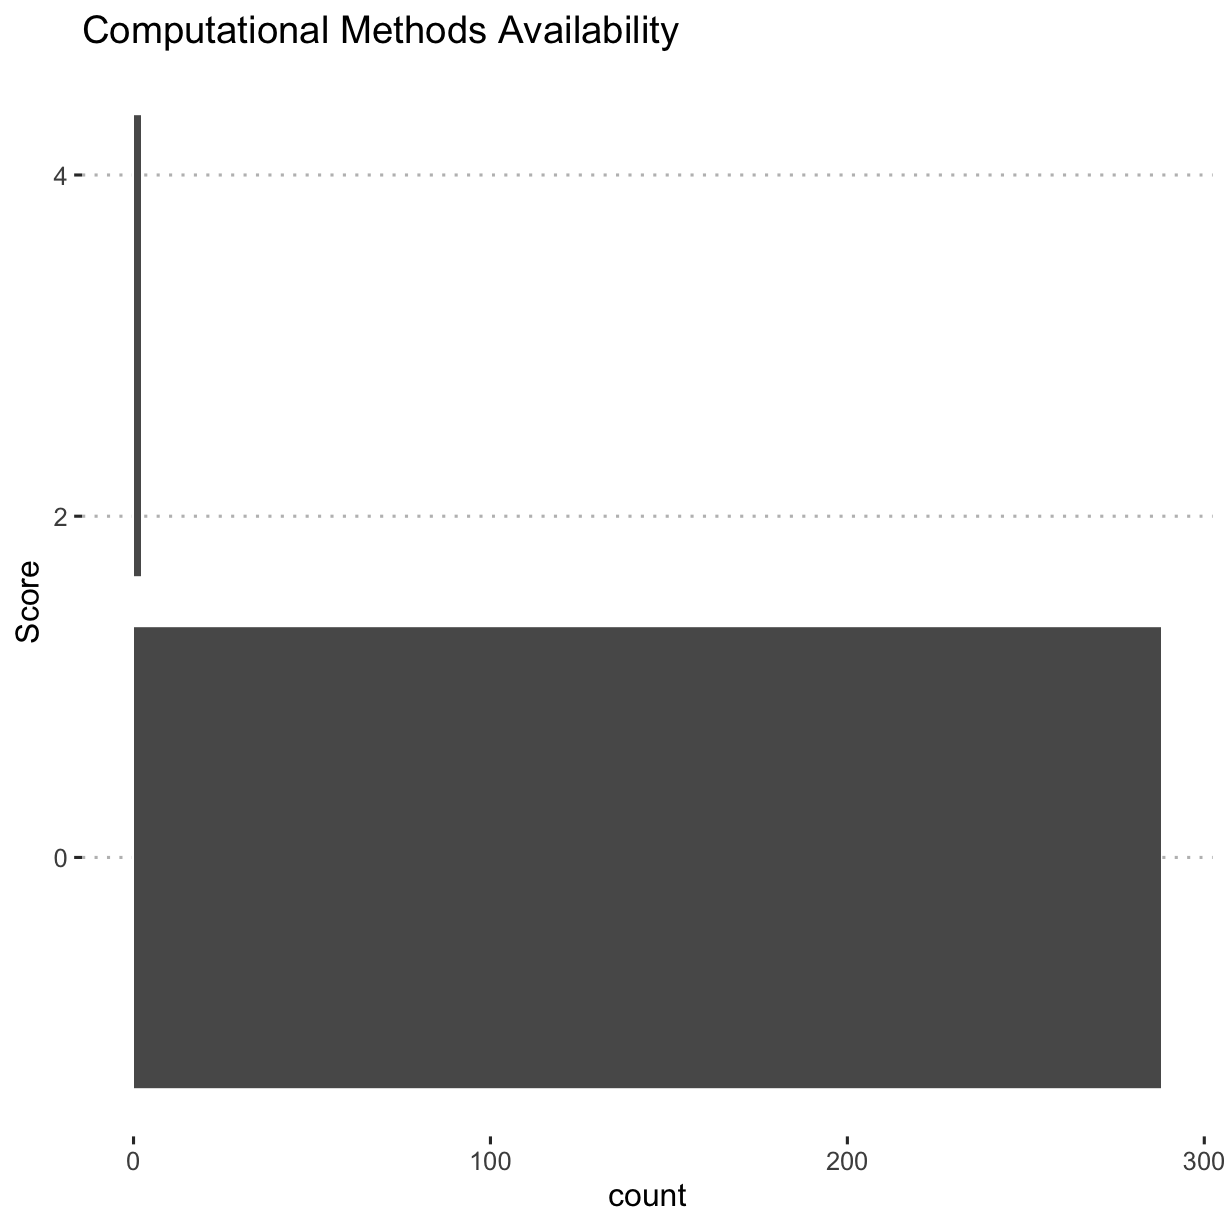
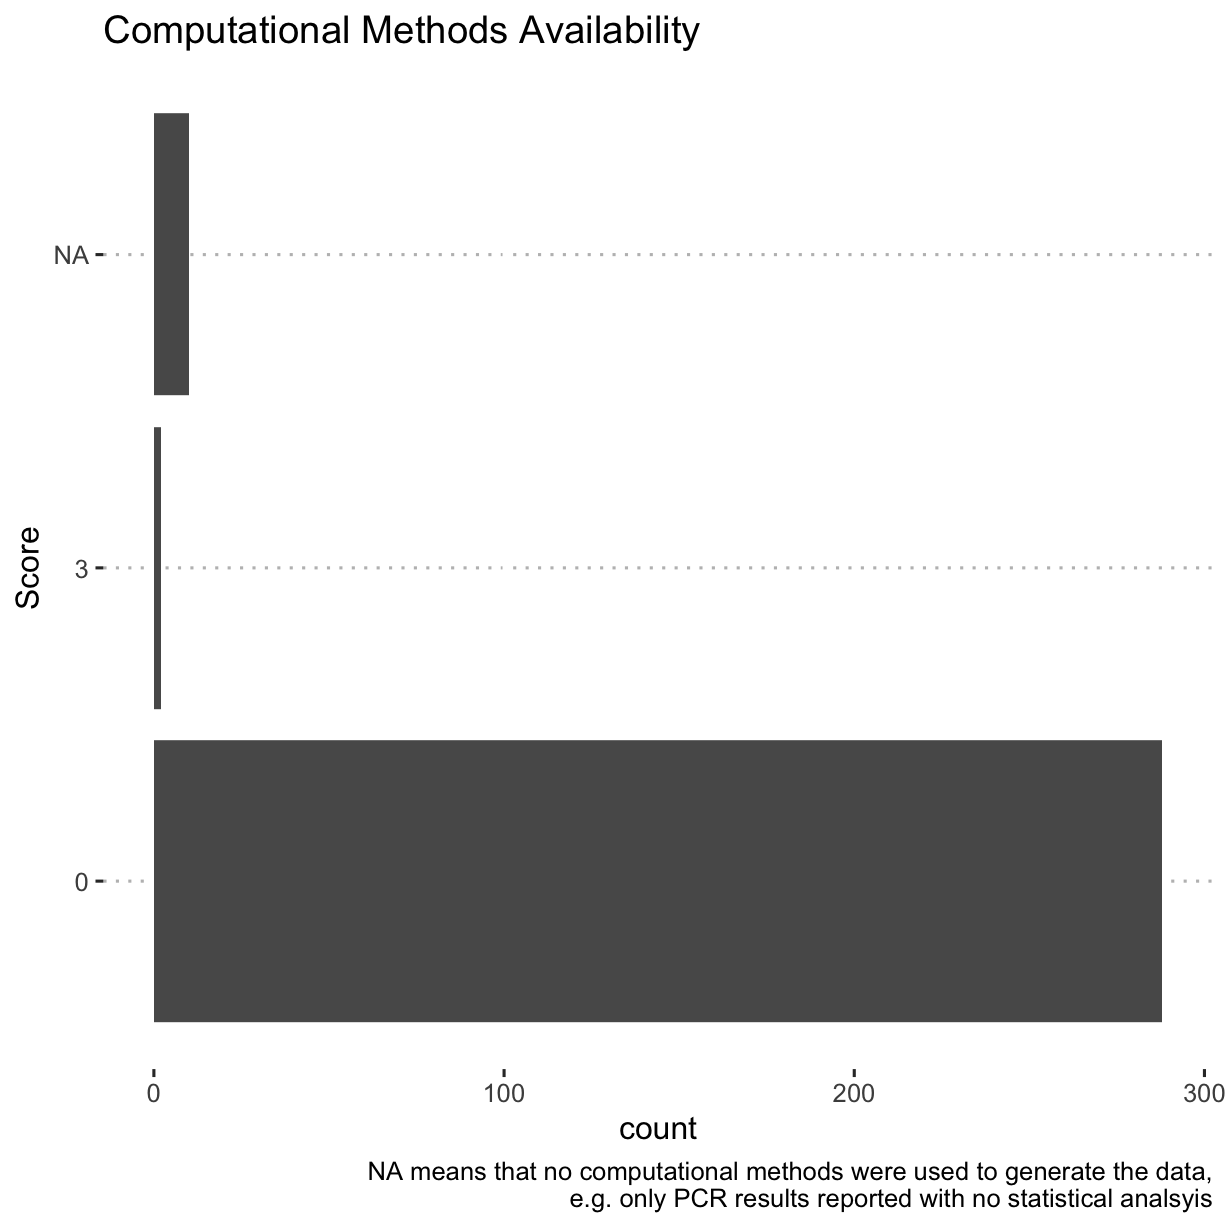
Built site for Reproducibility.in.Plant.Pathology: 0.0.1-1@0c189c2

Changed region(s): [[0.0309, 0.0928, 1.0, 0.9902], [0.0619, 0.0, 0.557, 0.0619], [0.0, 0.4332, 0.0309, 0.5261]]

diff --git a/articles/e_analysis.html b/articles/e_analysis.html
@@ -219,11 +219,11 @@
 <h2 class="hasAnchor">
 <a href="#computational-methods-available" class="anchor"></a>Computational methods available</h2>
 <p>Were the computational methods, scripts, source code, <em>etc.</em>, made available?</p>
-<div class="sourceCode" id="cb6"><html><body><pre class="r"><span class="fu">ggplot</span>(<span class="no">rrpp</span>, <span class="fu">aes</span>(<span class="kw">y</span> <span class="kw">=</span> <span class="no">comp_mthds_avail</span>)) +
+<div class="sourceCode" id="cb6"><html><body><pre class="r"><span class="fu">ggplot</span>(<span class="no">rrpp</span>, <span class="fu">aes</span>(<span class="kw">y</span> <span class="kw">=</span> <span class="fu"><a href="https://rdrr.io/r/base/factor.html">as.factor</a></span>(<span class="no">comp_mthds_avail</span>))) +
   <span class="fu">geom_bar</span>() +
   <span class="fu">ggtitle</span>(<span class="st">"Computational Methods Availability"</span>) +
-  <span class="fu">ylab</span>(<span class="st">"Score"</span>)
-<span class="co">#&gt; Warning: Removed 10 rows containing non-finite values (stat_count).</span></pre></body></html></div>
+  <span class="fu">ylab</span>(<span class="st">"Score"</span>) +
+  <span class="fu">labs</span>(<span class="kw">caption</span> <span class="kw">=</span> <span class="st">"NA means that no computational methods were used to generate the data,\ne.g. only PCR results reported with no statistical analsyis"</span>)</pre></body></html></div>
 <p><img src="e_analysis_files/figure-html/unnamed-chunk-5-1.png" width="614.4"></p>
 </div>
 <div id="software-availability" class="section level2">
@@ -323,7 +323,7 @@
 <h2 class="hasAnchor">
 <a href="#journal-open-access-effect-on-reproducibility-score" class="anchor"></a>Journal open access effect on reproducibility score</h2>
 <div class="sourceCode" id="cb15"><html><body><pre class="r"><span class="fu">ggplot</span>(<span class="no">rrpp</span>, <span class="fu">aes</span>(<span class="kw">x</span> <span class="kw">=</span> <span class="no">reproducibility_score</span>,
-                 <span class="kw">y</span> <span class="kw">=</span> <span class="no">open</span>)) +
+                 <span class="kw">y</span> <span class="kw">=</span> <span class="fu"><a href="https://rdrr.io/r/base/factor.html">as.factor</a></span>(<span class="no">open</span>))) +
   <span class="fu">geom_boxplot</span>(<span class="kw">outlier.shape</span> <span class="kw">=</span> <span class="fl">NA</span>) +
   <span class="fu">geom_jitter</span>(<span class="kw">width</span> <span class="kw">=</span> <span class="fl">0.25</span>, <span class="kw">alpha</span> <span class="kw">=</span> <span class="fl">0.5</span>) +
   <span class="fu">ggtitle</span>(<span class="st">"Open Access Effect"</span>) +

diff --git a/reference/workflow_dia.html b/reference/workflow_dia.html
@@ -699,7 +699,7 @@
 #&gt; [13033] 28 63 61 69 72 6f 20 31 2e 31 36 2e 30 20 28 68 74 74 70 73 3a 2f 2f 63
 #&gt; [13057] 61 69 72 6f 67 72 61 70 68 69 63 73 2e 6f 72 67 29 29 0a 20 20 20 2f 43
 #&gt; [13081] 72 65 61 74 69 6f 6e 44 61 74 65 20 28 44 3a 32 30 32 30 30 35 30 31 30
-#&gt; [13105] 31 32 34 31 39 5a 29 0a 3e 3e 0a 65 6e 64 6f 62 6a 0a 32 32 20 30 20 6f
+#&gt; [13105] 31 34 31 33 34 5a 29 0a 3e 3e 0a 65 6e 64 6f 62 6a 0a 32 32 20 30 20 6f
 #&gt; [13129] 62 6a 0a 3c 3c 20 2f 54 79 70 65 20 2f 43 61 74 61 6c 6f 67 0a 20 20 20
 #&gt; [13153] 2f 50 61 67 65 73 20 31 20 30 20 52 0a 3e 3e 0a 65 6e 64 6f 62 6a 0a 78
 #&gt; [13177] 72 65 66 0a 30 20 32 33 0a 30 30 30 30 30 30 30 30 30 30 20 36 35 35 33
